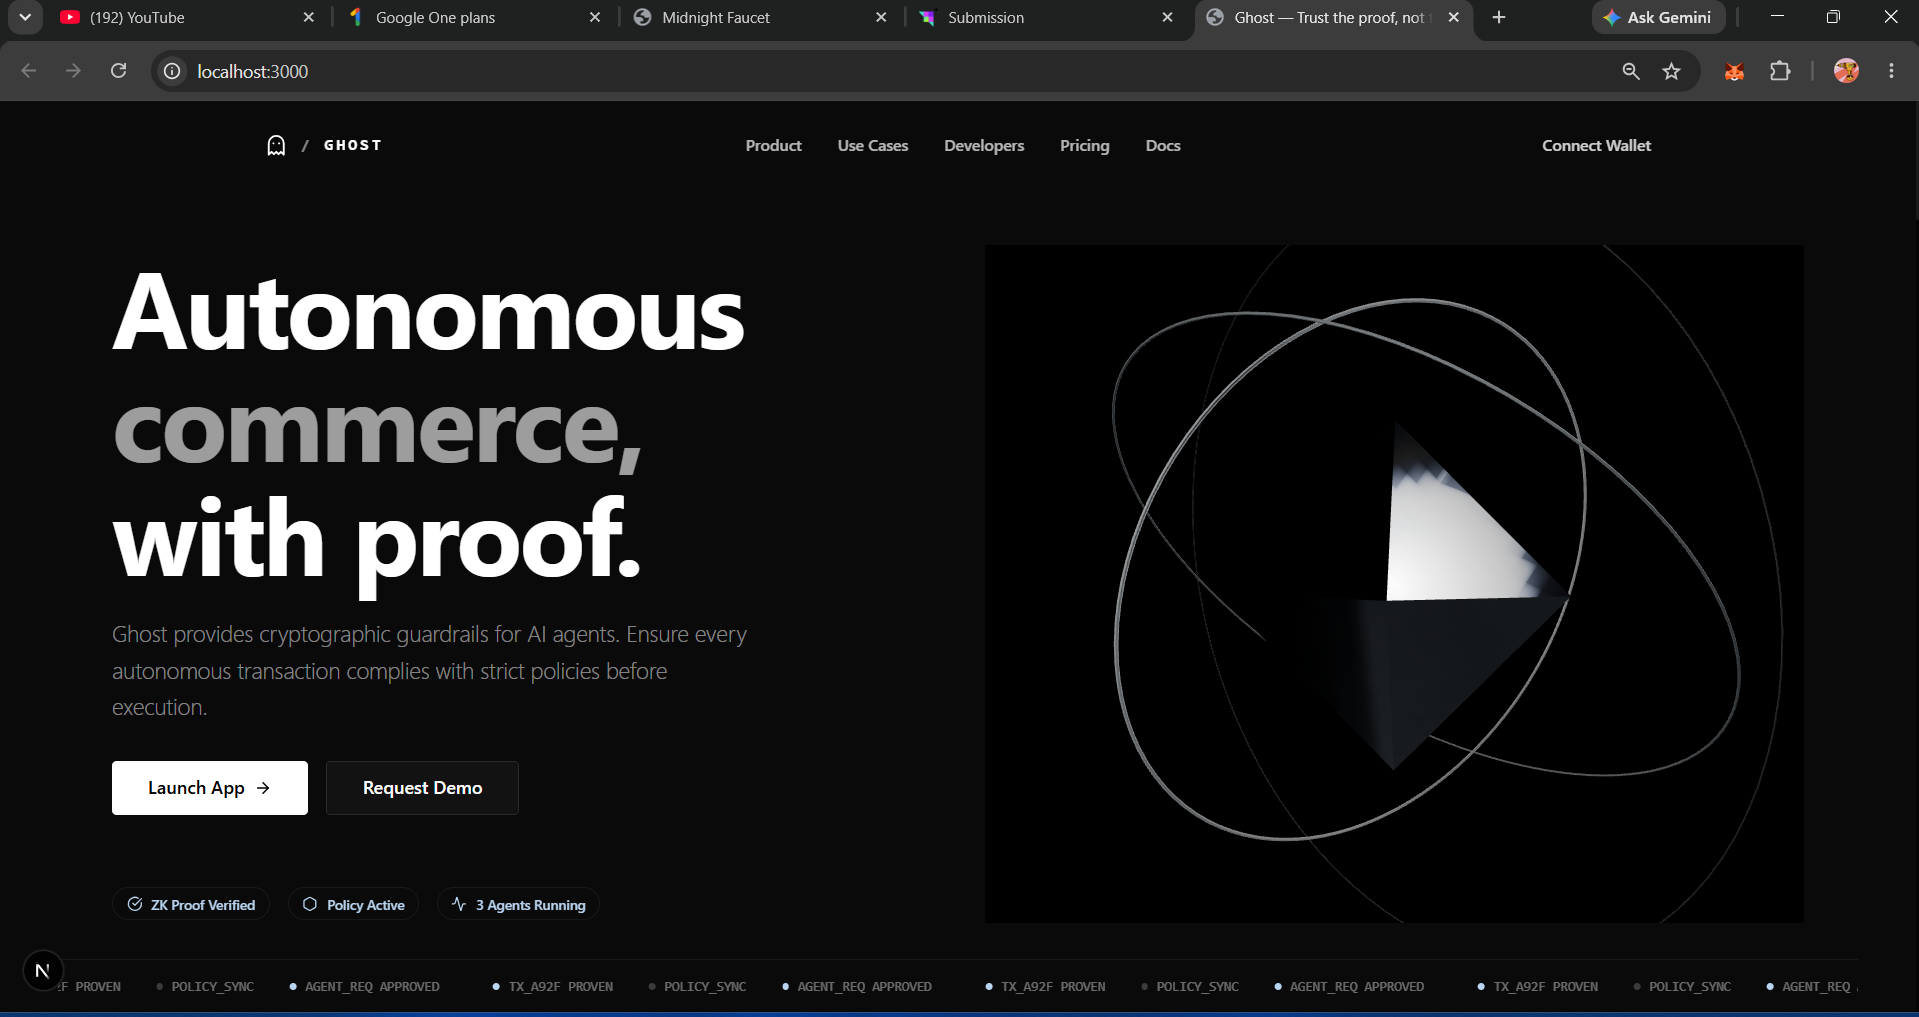
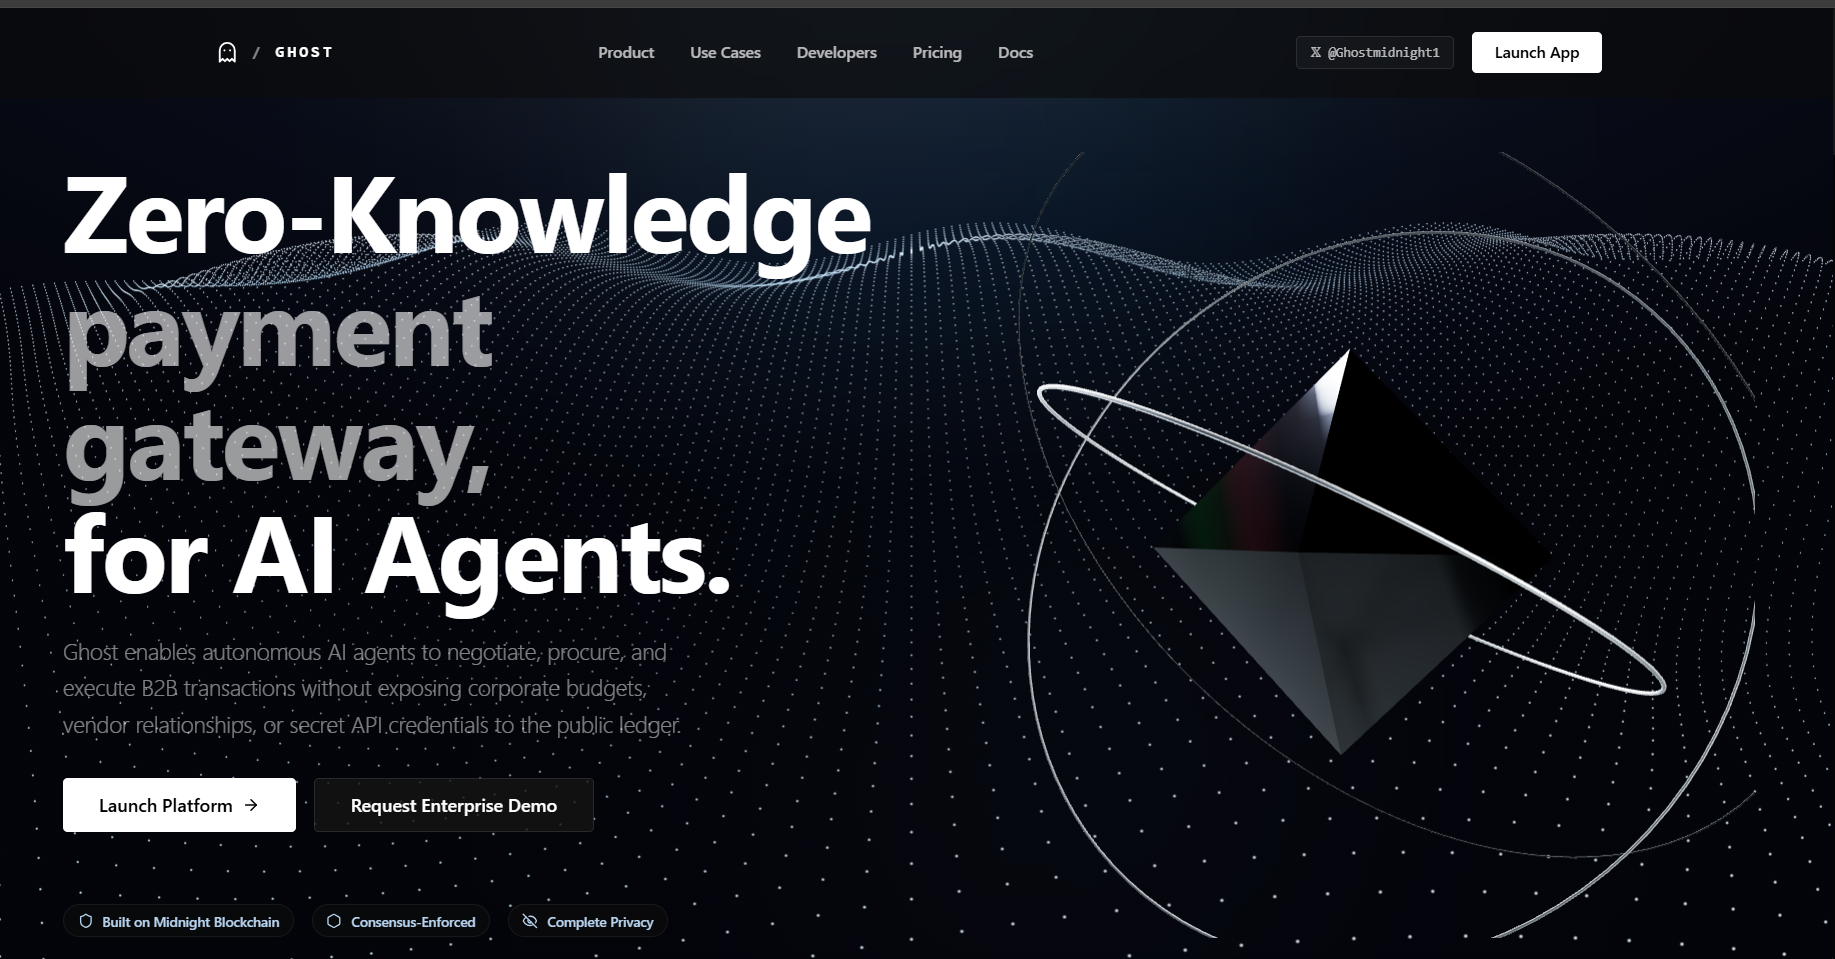
docs(readme): update landing page screenshot and update demo video link

diff --git a/README.md b/README.md
@@ -24,7 +24,7 @@
 
 > **Live Demo:** [https://ghost-kappa-one.vercel.app/](https://ghost-kappa-one.vercel.app/)
 > 
-> **Watch Demo (Direct 200 OK):** [https://www.youtube.com/watch?v=xtTsfs0GKTA](https://www.youtube.com/watch?v=xtTsfs0GKTA) *(Shortlink: [https://youtu.be/xtTsfs0GKTA](https://youtu.be/xtTsfs0GKTA))*
+> **Watch Demo (Direct 200 OK):** [https://www.youtube.com/watch?v=Z0rMz7RlNQc](https://www.youtube.com/watch?v=Z0rMz7RlNQc) *(Shortlink: [https://youtu.be/Z0rMz7RlNQc](https://youtu.be/Z0rMz7RlNQc))*
 > 
 > **Latest Announcement on X:** [Ghost Level 6 Features Release Post](https://x.com/Ghostmidnight1/status/2103756679468954011) · Follow [@Ghostmidnight1](https://x.com/Ghostmidnight1) for live updates
 > 
@@ -34,7 +34,7 @@
 > 
 > **Platform Documentation & Verification Audits:**
 > - [Live Demo Application](https://ghost-kappa-one.vercel.app/)
-> - [Demo Video Walkthrough (YouTube)](https://www.youtube.com/watch?v=xtTsfs0GKTA)
+> - [Demo Video Walkthrough (YouTube)](https://www.youtube.com/watch?v=Z0rMz7RlNQc)
 > - [Latest Announcement on X](https://x.com/Ghostmidnight1/status/2103756679468954011)
 > - [Live User Feedback Spreadsheet](https://docs.google.com/spreadsheets/d/e/2PACX-1vRRil6AaS3PflN8c-XBKMkozNLaKpPa4U1DQtL5iBkWjzLS_xeKE2rldMzbPRhIMsTtrMQ-kmNSvPov/pubhtml)
 > - [Operator & User Guide](./docs/USAGE.md)
@@ -329,55 +329,59 @@ Complete end-to-end integration with Midnight indexers and proof servers for ins
 
 Here is the complete showcase of all production modules and enterprise capabilities of the Ghost platform:
 
-### 1. Midnight Zero-Knowledge Access & 1AM Wallet Authentication
+### 1. Enterprise Landing Page & 3D Interactive Hero
+*Next-generation Dark Mode landing page featuring real-time 3D interactive particle waves, dynamic ambient glowing orbs, and full Zero-Knowledge autonomous agent value proposition.*
+<img src="./Screenshot/Landing%20Page.png" alt="Ghost Enterprise Landing Page" width="100%" />
+
+### 2. Midnight Zero-Knowledge Access & 1AM Wallet Authentication
 *Cryptographic Web3 identity authentication: connect securely via 1AM Wallet across Midnight Preprod and Preview networks with dual-mode credential and sandbox fallback.*
 <img src="./Screenshot/Wallet%20Conect.png" alt="1AM Wallet Authentication" width="100%" />
 
-### 2. Central Command Dashboard
+### 3. Central Command Dashboard
 *Unified operational command for autonomous commerce: monitor real-time treasury spend, active agent fleets, policy adherence, and live Midnight proof verifications.*
 <img src="./Screenshot/Dashboard.png" alt="Central Command Dashboard" width="100%" />
 
-### 3. Autonomous Agent Fleet Orchestration & Swarm Provisioning
+### 4. Autonomous Agent Fleet Orchestration & Swarm Provisioning
 *Hierarchical fleet nesting, role-based capability scoping, and instant cryptographic credential provisioning across hundreds of specialized AI shopping and procurement bots.*
 <img src="./Screenshot/Agent%20Fleet%20Management.png" alt="Agent Fleet Management" width="100%" />
 
-### 4. Enterprise Policy Engine & Spending Guardrails
+### 5. Enterprise Policy Engine & Spending Guardrails
 *Granular Zero-Knowledge spending rules, per-transaction velocity limits, category allowlists/blocklists, and dynamic encrypted threshold re-balancing without contract redeployment.*
 <img src="./Screenshot/Enterprice%20policies.png" alt="Enterprise Policies" width="100%" />
 
-### 5. Multi-Party ZK Approval Center (HITL Queue)
+### 6. Multi-Party ZK Approval Center (HITL Queue)
 *Human-in-the-Loop (HITL) authorization and M-of-N Segregation of Duties consensus: high-value purchases exceeding automatic caps require multi-signature cryptographic approval before fund disbursement.*
 <img src="./Screenshot/Approval%20Center.png" alt="Multi-Party Approval Center" width="100%" />
 
-### 6. Cryptographic Audit Log & Selective Disclosure
+### 7. Cryptographic Audit Log & Selective Disclosure
 *Immutable Merkle tree transaction receipts providing mathematical proof of 100% regulatory compliance (SOX 404 / SOC 2) to financial auditors without revealing proprietary prompt logs or trade secrets.*
 <img src="./Screenshot/Audit%20Log.png" alt="Verifiable Audit Log" width="100%" />
 
-### 7. AI Incident Management & Dispute Resolution
+### 8. AI Incident Management & Dispute Resolution
 *Real-time anomaly monitoring, automated velocity kill-switch tripping, and vendor dispute handling for rogue, hallucinating, or compromised agent behaviors.*
 <img src="./Screenshot/Dispute%20%26Incidents.png" alt="Disputes and Incidents" width="100%" />
 
-### 8. Real-Time Zero-Knowledge Proof Explorer
+### 9. Real-Time Zero-Knowledge Proof Explorer
 *Inspect and verify every on-chain cryptographic witness commitment, proving execution integrity and policy adherence on the Midnight blockchain ledger.*
 <img src="./Screenshot/Proof%20Verification.png" alt="ZK Proof Verification" width="100%" />
 
-### 9. Developer Hub & Cryptographic SDK Portal
+### 10. Developer Hub & Cryptographic SDK Portal
 *Manage enterprise API credentials, configure real-time webhook listeners, and integrate Ghost's Zero-Knowledge spending guardrails into LangChain, AutoGPT, and ElizaOS in 3 lines of code.*
 <img src="./Screenshot/Developer%20Tools.png" alt="Developer Tools" width="100%" />
 
-### 10. In-App Smart Contract Deployment via 1AM Wallet
+### 11. In-App Smart Contract Deployment via 1AM Wallet
 *Deploy native Compact smart contracts directly to the Midnight network through the 1AM wallet connector with automated parameter initialization and indexer binding.*
 <img src="./Screenshot/Deployed%20Contract%20Via%20App.png" alt="Deployed Contract Via App" width="100%" />
 
-### 11. Client-Side Circuit Execution & Settlement
+### 12. Client-Side Circuit Execution & Settlement
 *Zero-Knowledge spend proofs synthesized client-side in WebAssembly, balanced through 1AM wallet, and permanently settled on-chain.*
 <img src="./Screenshot/Succesfull%20Circuit%20called%20via%20App.png" alt="Successful Circuit Execution" width="100%" />
 
-### 12. Compact Smart Contract Compiler Pipeline
+### 13. Compact Smart Contract Compiler Pipeline
 *Midnight Compact compiler toolchain compiling formal ZK circuit definitions into optimized proving keys and TypeScript contract interfaces.*
 <img src="./Screenshot/Compiler.png" alt="Compact Compiler" width="100%" />
 
-### 13. Automated CI/CD & Monorepo Test Verification
+### 14. Automated CI/CD & Monorepo Test Verification
 *Continuous integration pipeline executing 25 comprehensive test suites and 214 unit/penetration tests with 100% pass rate.*
 <img src="./Screenshot/Succesfull%20Test%20Files.png" alt="Test Suites Passed" width="100%" />
 

diff --git a/docs/CHECKLIST.md b/docs/CHECKLIST.md
@@ -7,7 +7,7 @@
 - [x] **Minimum 20 meaningful commits:** Repository contains **115+ meaningful commits** on `master` branch.
 - [x] **Public GitHub repository with updated documentation:** Open-source repository hosted at [https://github.com/Div1912/Luma](https://github.com/Div1912/Luma).
 - [x] **Live demo link:** Production deployment live on Vercel at [https://ghost-kappa-one.vercel.app/](https://ghost-kappa-one.vercel.app/).
-- [x] **Demo video showing full MVP functionality:** Hosted YouTube walkthrough at [https://www.youtube.com/watch?v=xtTsfs0GKTA](https://www.youtube.com/watch?v=xtTsfs0GKTA) (HTTP 200 OK).
+- [x] **Demo video showing full MVP functionality:** Hosted YouTube walkthrough at [https://www.youtube.com/watch?v=Z0rMz7RlNQc](https://www.youtube.com/watch?v=Z0rMz7RlNQc) *(Shortlink: [https://youtu.be/Z0rMz7RlNQc](https://youtu.be/Z0rMz7RlNQc))* (HTTP 200 OK).
[1 lines of base64/hex data omitted]
 
 ---
@@ -67,5 +67,5 @@
 
 - [x] **Public GitHub repository:** Publicly accessible at [https://github.com/Div1912/Luma](https://github.com/Div1912/Luma).
 - [x] **Live demo link:** Hosted and operational at [https://ghost-kappa-one.vercel.app/](https://ghost-kappa-one.vercel.app/).
-- [x] **Demo video showing full MVP functionality:** Direct YouTube link at [https://www.youtube.com/watch?v=xtTsfs0GKTA](https://www.youtube.com/watch?v=xtTsfs0GKTA) (HTTP 200 OK).
+- [x] **Demo video showing full MVP functionality:** Direct YouTube link at [https://www.youtube.com/watch?v=Z0rMz7RlNQc](https://www.youtube.com/watch?v=Z0rMz7RlNQc) *(Shortlink: [https://youtu.be/Z0rMz7RlNQc](https://youtu.be/Z0rMz7RlNQc))* (HTTP 200 OK).
 - [x] **Official X Announcement:** Live post published at [https://x.com/Ghostmidnight1/status/2103756679468954011](https://x.com/Ghostmidnight1/status/2103756679468954011).
